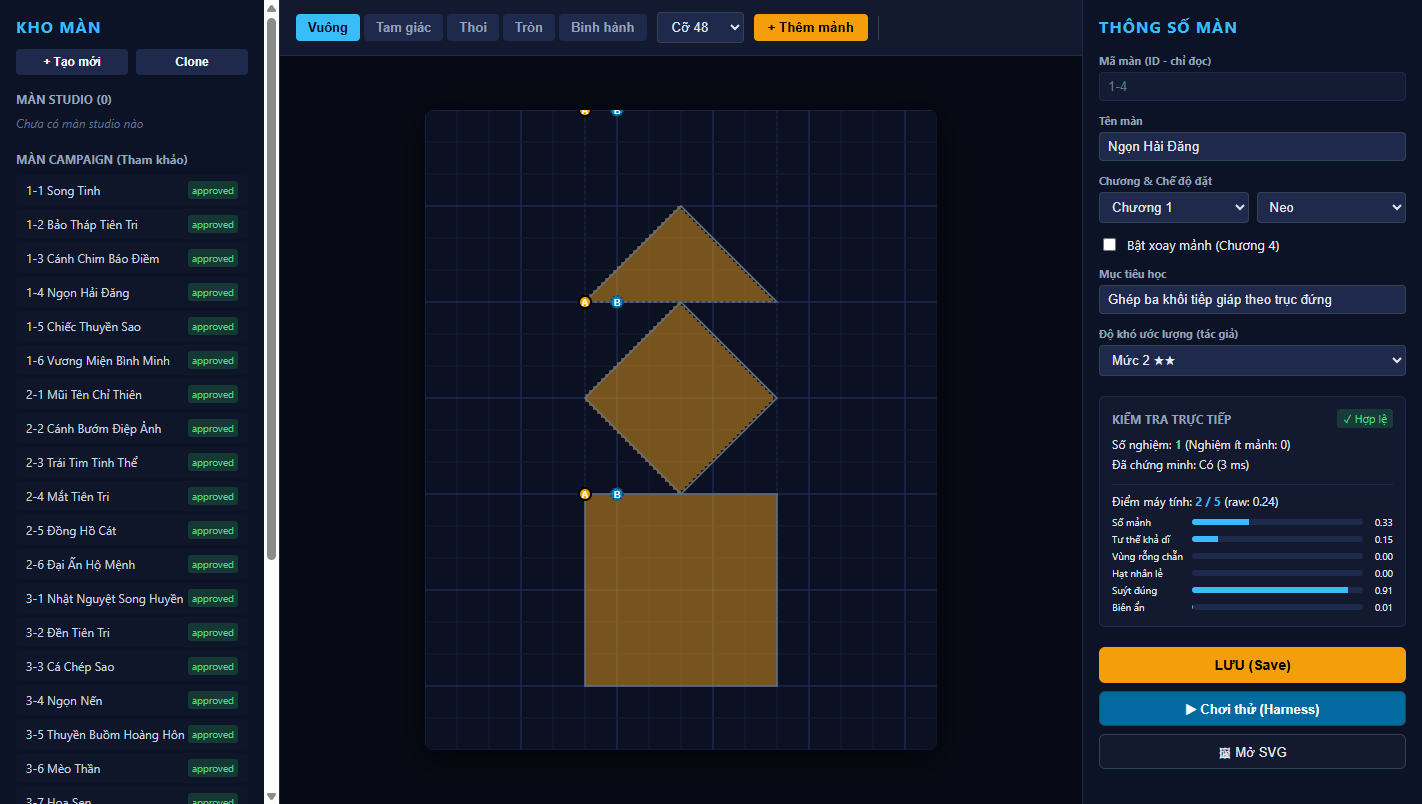
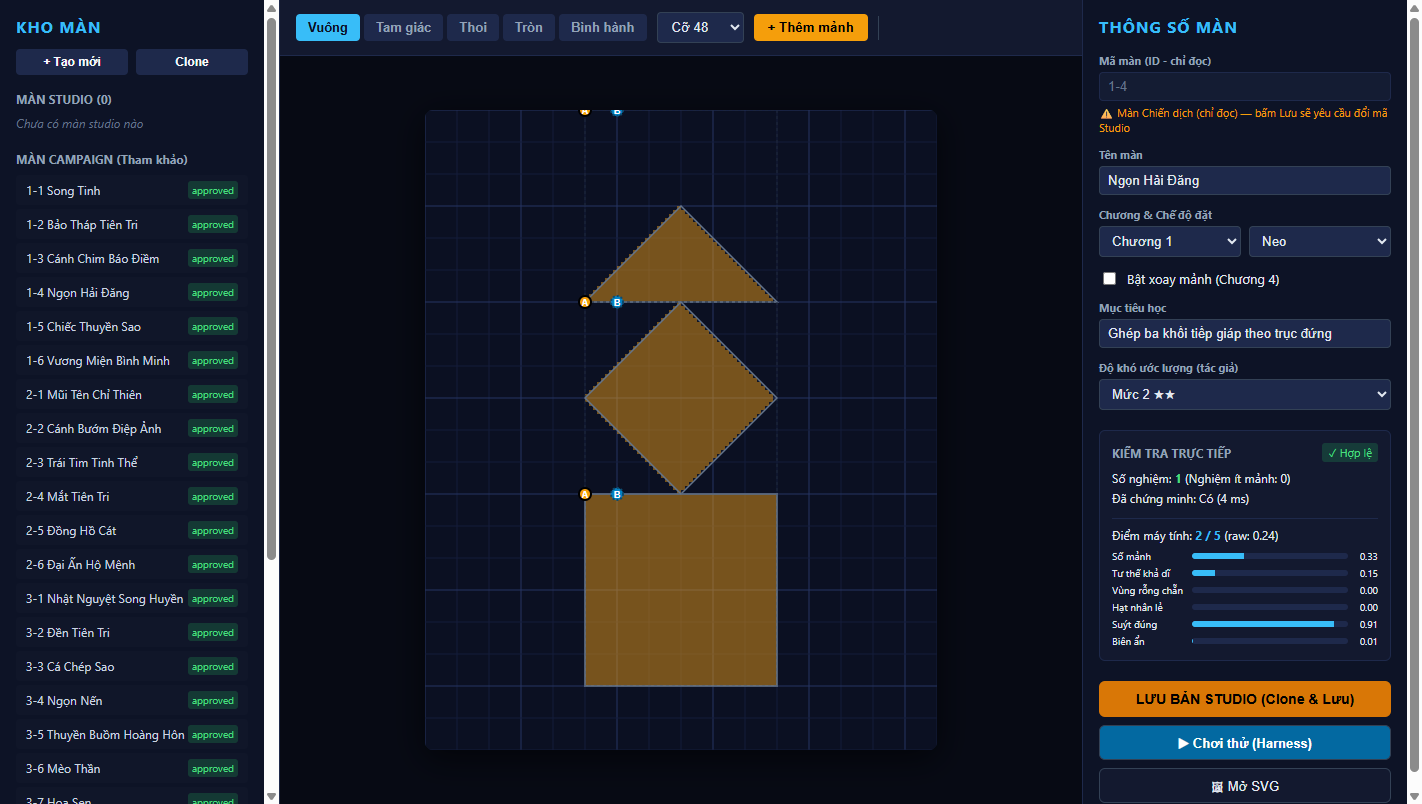
fix(studio): resolve id-clash-campaign on save and sync rotation with chapter
- Export isCampaignId helper to identify campaign levels.\n- Synchronize chapter and rotationEnabled in studioReducer so toggling rotation automatically sets chapter 4 and prevents chapter-rotation-disabled validator error.\n- Guide user when saving campaign levels with prompt to clone to a new studio ID instead of throwing id-clash-campaign.\n- Add campaign ID validation when creating or cloning levels in library.

Changed region(s): [[0.7736, 0.0, 1.0, 1.0]]

diff --git a/game-next/src/studio/inspector.ts b/game-next/src/studio/inspector.ts
@@ -1,7 +1,8 @@
 import type { Chapter, PlacementMode, Turns } from '../domain/model.ts';
 import type { AuthorResult } from '../content/authorLevel.ts';
 import type { StudioAction, StudioState } from './state.ts';
-import { isDirty } from './state.ts';
+import { cloneLevelSource, isDirty } from './state.ts';
+import { isCampaignId } from '../content/manifest.ts';
 import { saveStudioLevelApi } from './api.ts';
 
 export type InspectorOptions = {
@@ -84,6 +85,12 @@ export function createInspector(options: InspectorOptions): Inspector {
     }
 
     // ID (Readonly)
+    const isCampaign = isCampaignId(source.id);
+    const idContainer = document.createElement('div');
+    idContainer.style.display = 'flex';
+    idContainer.style.flexDirection = 'column';
+    idContainer.style.gap = '4px';
+
     const idInput = document.createElement('input');
     idInput.type = 'text';
     idInput.value = source.id;
@@ -93,7 +100,16 @@ export function createInspector(options: InspectorOptions): Inspector {
     idInput.style.color = '#64748b';
     idInput.style.border = '1px solid #1e294b';
     idInput.style.borderRadius = '4px';
-    addRow('Mã màn (ID - chỉ đọc)', idInput);
+    idContainer.appendChild(idInput);
+
+    if (isCampaign) {
+      const campTag = document.createElement('div');
+      campTag.textContent = '⚠ Màn Chiến dịch (chỉ đọc) — bấm Lưu sẽ yêu cầu đổi mã Studio';
+      campTag.style.fontSize = '11px';
+      campTag.style.color = '#f59e0b';
+      idContainer.appendChild(campTag);
+    }
+    addRow('Mã màn (ID - chỉ đọc)', idContainer);
 
     // Title
     const titleInput = document.createElement('input');
@@ -421,8 +437,15 @@ export function createInspector(options: InspectorOptions): Inspector {
     actions.style.gap = '8px';
 
     // Save button
+    const isCamp = isCampaignId(source.id);
     const saveBtn = document.createElement('button');
-    saveBtn.textContent = isSaving ? 'Đang lưu...' : 'LƯU (Save)';
+    if (isSaving) {
+      saveBtn.textContent = 'Đang lưu...';
+    } else if (isCamp) {
+      saveBtn.textContent = 'LƯU BẢN STUDIO (Clone & Lưu)';
+    } else {
+      saveBtn.textContent = 'LƯU (Save)';
+    }
     saveBtn.style.padding = '10px';
     saveBtn.style.borderRadius = '6px';
     saveBtn.style.border = 'none';
@@ -433,7 +456,7 @@ export function createInspector(options: InspectorOptions): Inspector {
     const canSave = latestCheck?.ok && !isSaving;
     saveBtn.disabled = !canSave;
     if (canSave) {
-      saveBtn.style.backgroundColor = '#f59e0b';
+      saveBtn.style.backgroundColor = isCamp ? '#d97706' : '#f59e0b';
       saveBtn.style.color = '#000000';
     } else {
       saveBtn.style.backgroundColor = '#1e294b';
@@ -442,16 +465,42 @@ export function createInspector(options: InspectorOptions): Inspector {
 
     saveBtn.onclick = async () => {
       if (!canSave) return;
+
+      let targetSource = source;
+      if (isCampaignId(source.id)) {
+        const suggestedId = `mau-${source.id}`;
+        const newId = prompt(
+          `Màn "${source.id}" thuộc Chiến dịch nên không thể lưu đè.\nVui lòng nhập mã Studio mới để tạo bản lưu:`,
+          suggestedId
+        );
+        if (!newId) return;
+        if (!/^[a-z0-9-]{1,32}$/.test(newId)) {
+          alert('Mã màn chỉ gồm chữ thường, số và gạch ngang (tối đa 32 ký tự).');
+          return;
+        }
+        if (isCampaignId(newId)) {
+          alert(`Mã "${newId}" trùng với màn trong chiến dịch. Vui lòng chọn mã khác (bắt đầu bằng mau- hoặc studio-).`);
+          return;
+        }
+        targetSource = cloneLevelSource(source, newId);
+        options.dispatch({ type: 'load-source', source: targetSource });
+        window.location.hash = `#${newId}`;
+      }
+
       isSaving = true;
       render();
       try {
-        const res = await saveStudioLevelApi(source);
+        const res = await saveStudioLevelApi(targetSource);
         if (res.ok) {
           options.dispatch({ type: 'mark-saved' });
           options.onSaved();
-          alert(`Đã lưu màn "${source.id}" thành công!`);
+          alert(`Đã lưu màn "${targetSource.id}" thành công!`);
         } else {
-          alert(`Lỗi khi lưu: ${res.error}`);
+          if (res.error === 'id-clash-campaign') {
+            alert(`Lỗi khi lưu: Mã màn "${targetSource.id}" trùng với màn chiến dịch. Vui lòng đổi mã khác.`);
+          } else {
+            alert(`Lỗi khi lưu: ${res.error}`);
+          }
         }
       } catch (err) {
         alert(`Lỗi kết nối: ${(err as Error).message}`);

diff --git a/game-next/tests/studioState.test.ts b/game-next/tests/studioState.test.ts
@@ -188,12 +188,40 @@ describe('studioReducer và StudioState', () => {
     }
   });
 
-  test('tắt rotationEnabled đưa toàn bộ turns nghiệm về 0', () => {
+  test('tắt rotationEnabled đưa toàn bộ turns nghiệm về 0 và chuyển chapter về 1 nếu đang là 4', () => {
     let state = createInitialState(levelTemplate);
+    state.source.chapter = 4;
     state.source.rotationEnabled = true;
     state.source.sampleSolutions[0][0].turns = 2;
 
     state = studioReducer(state, { type: 'set-rotation', enabled: false });
+    expect(state.source.rotationEnabled).toBe(false);
+    expect(state.source.chapter).toBe(1);
+    expect(state.source.sampleSolutions[0][0].turns).toBe(0);
+  });
+
+  test('bật rotationEnabled tự động đồng bộ chapter sang 4', () => {
+    let state = createInitialState(levelTemplate);
+    expect(state.source.chapter).toBe(1);
+    expect(state.source.rotationEnabled).toBe(false);
+
+    state = studioReducer(state, { type: 'set-rotation', enabled: true });
+    expect(state.source.rotationEnabled).toBe(true);
+    expect(state.source.chapter).toBe(4);
+  });
+
+  test('đổi field chapter sang 4 tự động bật rotation, đổi về 1..3 tự động tắt rotation', () => {
+    let state = createInitialState(levelTemplate);
+    expect(state.source.rotationEnabled).toBe(false);
+
+    state = studioReducer(state, { type: 'set-field', field: 'chapter', value: 4 });
+    expect(state.source.chapter).toBe(4);
+    expect(state.source.rotationEnabled).toBe(true);
+
+    state.source.sampleSolutions[0][0].turns = 3;
+
+    state = studioReducer(state, { type: 'set-field', field: 'chapter', value: 2 });
+    expect(state.source.chapter).toBe(2);
     expect(state.source.rotationEnabled).toBe(false);
     expect(state.source.sampleSolutions[0][0].turns).toBe(0);
   });

diff --git a/game-next/src/studio/library.ts b/game-next/src/studio/library.ts
@@ -1,4 +1,4 @@
-import { campaignManifest } from '../content/manifest.ts';
+import { campaignManifest, isCampaignId } from '../content/manifest.ts';
 import type { StudioLevelSummary } from '../content/studioStore.ts';
 import { levelTemplate } from '../content/sources/_template.ts';
 import { sourceFromDocument } from '../content/sourceFromDocument.ts';
@@ -89,6 +89,10 @@ export function createLibrary(options: LibraryOptions): Library {
         alert('Mã màn chỉ gồm chữ thường, số và gạch ngang (tối đa 32 ký tự)');
         return;
       }
+      if (isCampaignId(id)) {
+        alert(`Mã "${id}" trùng với màn chiến dịch. Vui lòng chọn mã khác (bắt đầu bằng mau- hoặc studio-).`);
+        return;
+      }
       const newSource = cloneLevelSource(levelTemplate, id);
       options.dispatch({ type: 'load-source', source: newSource });
       window.location.hash = `#${id}`;
@@ -107,10 +111,15 @@ export function createLibrary(options: LibraryOptions): Library {
     cloneBtn.style.fontWeight = 'bold';
     cloneBtn.style.cursor = 'pointer';
     cloneBtn.onclick = () => {
-      const id = prompt(`Nhập mã clone từ "${currentId}":`);
+      const suggested = isCampaignId(currentId) ? `mau-${currentId}` : `${currentId}-copy`;
+      const id = prompt(`Nhập mã clone từ "${currentId}":`, suggested);
       if (!id) return;
       if (!/^[a-z0-9-]{1,32}$/.test(id)) {
         alert('Mã màn chỉ gồm chữ thường, số và gạch ngang (tối đa 32 ký tự)');
+        return;
+      }
+      if (isCampaignId(id)) {
+        alert(`Mã "${id}" trùng với màn chiến dịch. Vui lòng chọn mã khác (bắt đầu bằng mau- hoặc studio-).`);
         return;
       }
       const cloned = cloneLevelSource(state.source, id);

diff --git a/game-next/src/studio/state.ts b/game-next/src/studio/state.ts
@@ -394,6 +394,20 @@ export function studioReducer(state: StudioState, action: StudioAction): StudioS
       if (action.field === 'title' && typeof action.value === 'string') {
         source.contentRevision = `${slugFromTitle(action.value)}-v1`;
       }
+      if (action.field === 'chapter') {
+        const chap = Number(action.value) as Chapter;
+        source.chapter = chap;
+        if (chap === 4) {
+          source.rotationEnabled = true;
+        } else {
+          source.rotationEnabled = false;
+          if (source.sampleSolutions && source.sampleSolutions[0]) {
+            for (const s of source.sampleSolutions[0]) {
+              s.turns = 0;
+            }
+          }
+        }
+      }
       return {
         ...state,
         source,
@@ -418,9 +432,16 @@ export function studioReducer(state: StudioState, action: StudioAction): StudioS
     case 'set-rotation': {
       const source = deepClone(state.source);
       source.rotationEnabled = action.enabled;
-      if (!action.enabled && source.sampleSolutions && source.sampleSolutions[0]) {
-        for (const s of source.sampleSolutions[0]) {
-          s.turns = 0;
+      if (action.enabled) {
+        source.chapter = 4;
+      } else {
+        if (source.chapter === 4) {
+          source.chapter = 1;
+        }
+        if (source.sampleSolutions && source.sampleSolutions[0]) {
+          for (const s of source.sampleSolutions[0]) {
+            s.turns = 0;
+          }
         }
       }
       return {

diff --git a/game-next/src/content/manifest.ts b/game-next/src/content/manifest.ts
@@ -36,3 +36,8 @@ export const campaignManifest: readonly ManifestEntry[] = [
   { id: '4-5', title: 'Thánh Giá Thiên Cầu', chapter: 4, order: 27, contentRevision: 'v0.1', status: 'planned' },
   { id: '4-6', title: 'Đại Ấn Tiên Tri', chapter: 4, order: 28, contentRevision: 'v0.1', status: 'planned' },
 ];
+
+/** Kiểm tra một id có phải là mã màn thuộc chiến dịch hay không */
+export function isCampaignId(id: string): boolean {
+  return campaignManifest.some((m) => m.id === id);
+}

diff --git a/CHANGELOG.md b/CHANGELOG.md
@@ -4,6 +4,15 @@ Nhật ký này là nguồn đọc nhanh cho người phát triển và AI. Mỗ
 
 ## Unreleased
 
+### 2026-10-04 - Fix id-clash-campaign when saving campaign levels and sync rotation with chapter in Studio
+
+- Modified `game-next/src/content/manifest.ts`: exported `isCampaignId(id)` helper to check if an ID belongs to `campaignManifest`.
+- Modified `game-next/src/studio/state.ts`: synchronized `chapter` and `rotationEnabled` in `studioReducer`. Setting `chapter: 4` or toggling `rotationEnabled: true` automatically enables both; switching away from Chapter 4 automatically disables rotation and resets turns to 0. Resolves validator error `chapter-rotation-disabled`.
+- Modified `game-next/src/studio/inspector.ts`: added campaign reference badge `⚠ Màn Chiến dịch (chỉ đọc)` on ID field; updated Save button to `LƯU BẢN STUDIO (Clone & Lưu)` when viewing campaign levels, prompting the user for a new studio ID and cloning/saving seamlessly instead of failing with `id-clash-campaign`.
+- Modified `game-next/src/studio/library.ts`: prevented creating or cloning levels with IDs that clash with campaign manifest.
+- Added test cases in `game-next/tests/studioState.test.ts`: verified chapter and rotation two-way synchronization in reducer.
+- Verification: `npm run typecheck` passed, all 605 tests passed across 47 suites, browser CDP capture verified `✓ Hợp lệ` upon rotation toggle and proper clone-save workflow.
+
 ### 2026-10-04 - Complete Level Studio frontend UI and acceptance evidence (Phases E3-2 & E3-3)
 
 - Added `game-next/studio.html`: dedicated Level Studio interface page with dark cosmic aesthetic, responsive 3-column layout.
